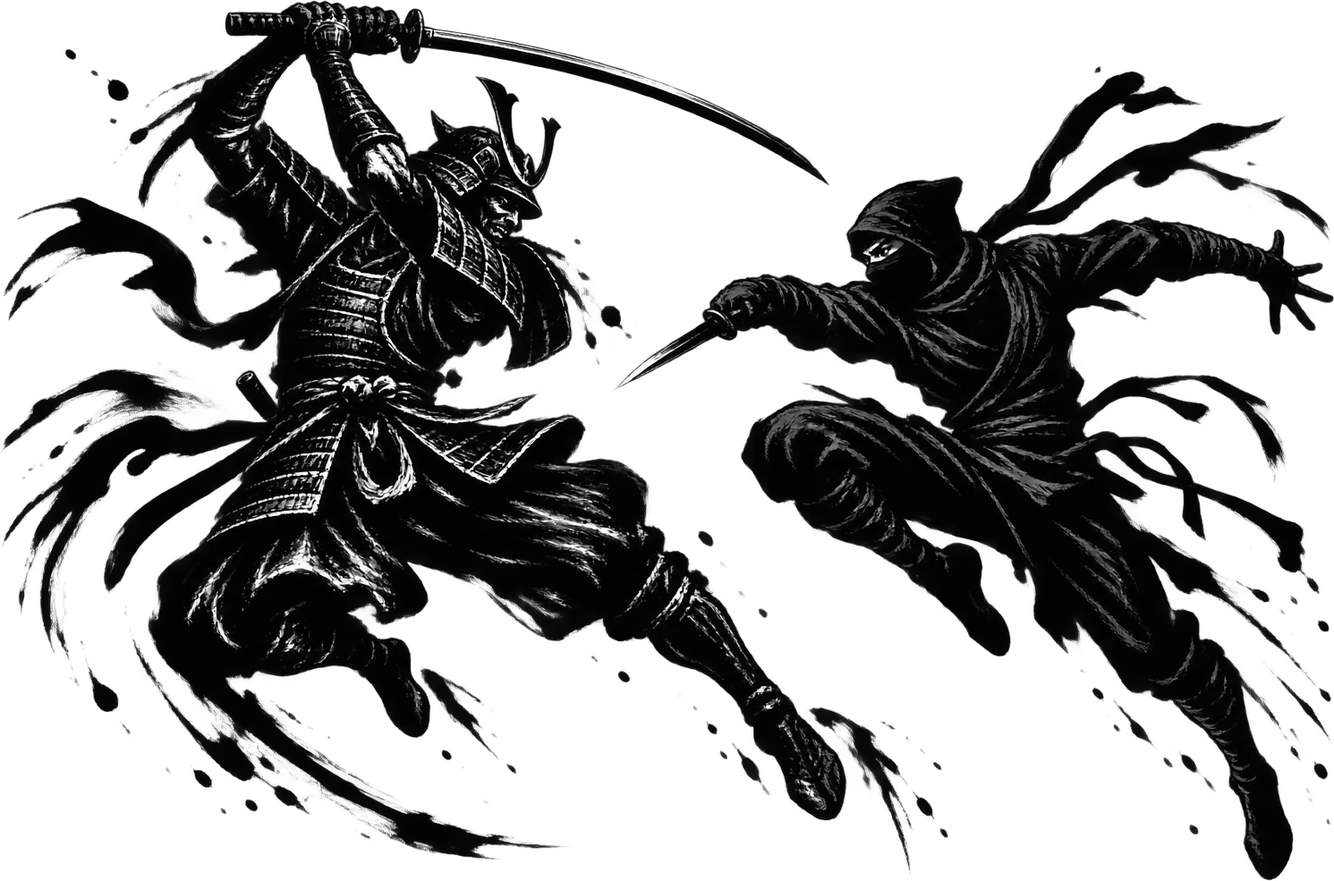
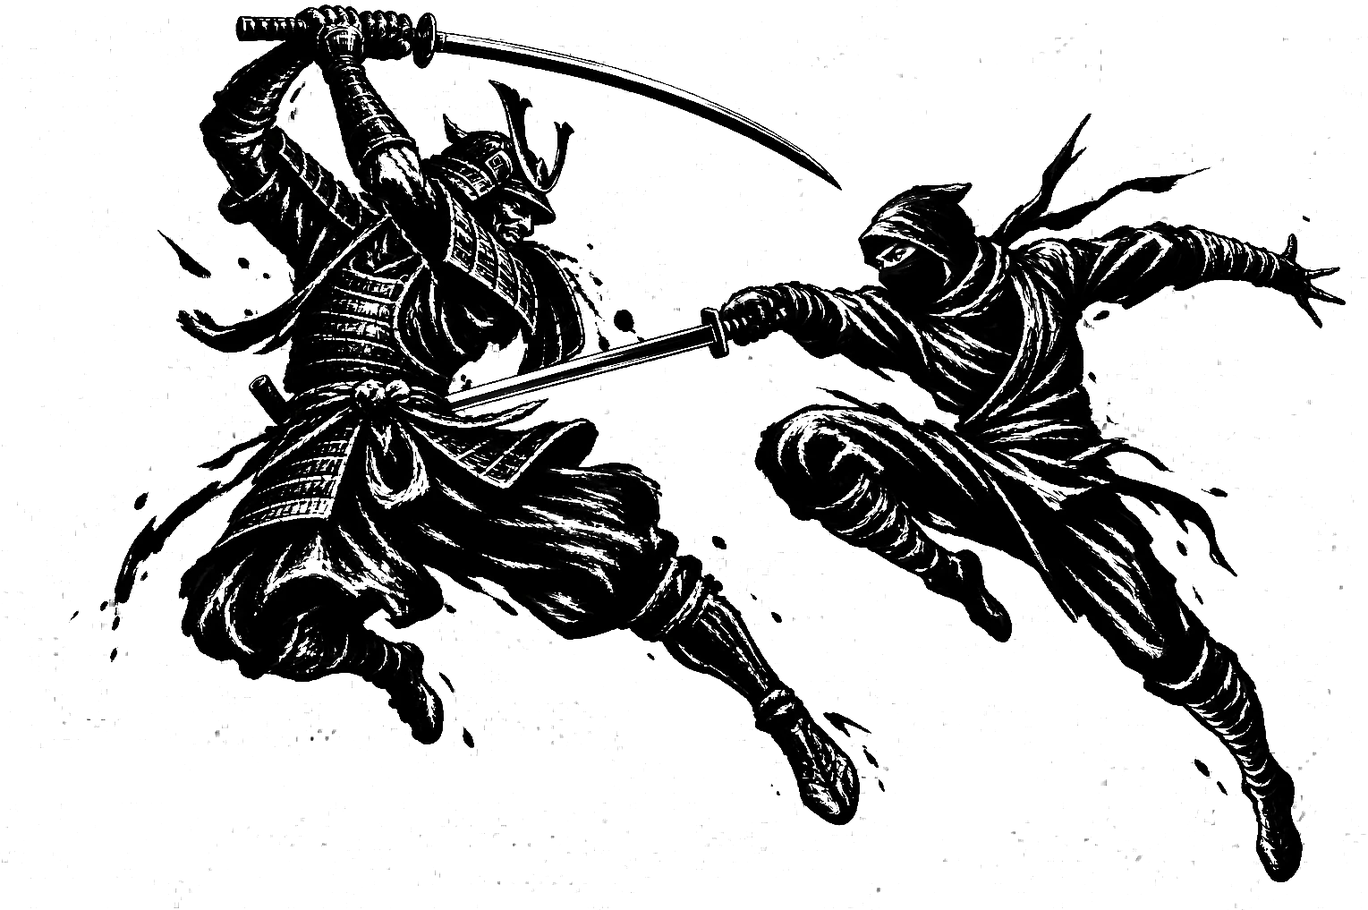
Правила: обложка с читаемым ниндзято, три персонажа веером, стол без легенды
Обложка перерисована по референсу: у ниндзя прямой меч-ниндзято, а не
кинжал. Модель вернула картинку с нарисованной шахматкой вместо альфы —
фон выключен по яркости (тушь < 110, шахматка 130–205), тушь чёрная.

«Выбор персонажей» — веер из трёх персонажей (Сайго, Усивака, Хандзо).
Стол во время партии — без нумерованной легенды и без номеров на
подписях: подписи сами называют предметы; рисунок снова во всю ширину
колонки. 12 страниц, все в границах.

Changed region(s): [[0.0, 0.0, 1.0, 1.0], [0.9873, 0.7005, 1.0, 0.731], [0.0617, 0.0914, 0.0926, 0.1218]]

diff --git a/rules/rules.html b/rules/rules.html
@@ -64,7 +64,7 @@
         <div class="chapter-body">
         <aside class="chapter-side">
           
-          <div class="side-cards fan n1"><div class="card-embed" style="--k:0;--i:0"><img src="media/cards/137.webp" alt="" loading="lazy"></div></div>
+          <div class="side-cards fan n3"><div class="card-embed" style="--k:-1;--i:0"><img src="media/cards/137.webp" alt="" loading="lazy"></div><div class="card-embed" style="--k:0;--i:1"><img src="media/cards/135.webp" alt="" loading="lazy"></div><div class="card-embed" style="--k:1;--i:2"><img src="media/cards/138.webp" alt="" loading="lazy"></div></div>
         </aside>
 <h4>Выбор персонажей</h4>
 <p>Все карты персонажей перемешиваются в общую закрытую стопку, и каждый игрок случайным образом тянет себе одну карту независимо от своей роли. Карта персонажа кладётся перед игроком в открытую — её свойства будут помогать ему всю партию.</p>
@@ -95,10 +95,9 @@
           <h2 class="chapter-title">Стол во время партии</h2>
 <p>Так выглядит стол в середине партии на четверых: у каждого игрока перед собой своя зона, посреди стола — общие стопки. Игроки сидят через одного, поэтому напротив — союзник, а по бокам — противники.</p>
 <figure class="table-figure">
-        <div class="table-pic"><img src="media/table.webp" alt="" width="1192" height="1165"><svg class="table-overlay" viewBox="0 0 1192 1165" xmlns="http://www.w3.org/2000/svg" aria-hidden="true"><defs><marker id="tf-arrow" viewBox="0 0 10 10" refX="9" refY="5" markerWidth="5" markerHeight="5" orient="auto-start-reverse"><path d="M0,0 L10,5 L0,10 z"/></marker></defs><g class="tf-lines"><line x1="209" y1="103" x2="540" y2="296"/><line x1="239" y1="183" x2="592" y2="300"/><line x1="202" y1="263" x2="583" y2="540"/><line x1="189" y1="353" x2="356" y2="560"/><line x1="999" y1="103" x2="742" y2="296"/><line x1="1007" y1="183" x2="658" y2="540"/><line x1="1019" y1="263" x2="884" y2="556"/><line x1="252" y1="883" x2="576" y2="806"/><line x1="919" y1="877" x2="662" y2="812"/><line x1="944" y1="967" x2="722" y2="722"/></g><g class="tf-labels"><g transform="translate(90,57)"><rect width="159" height="46" rx="8"/><circle class="tf-num" cx="23.0" cy="23.0" r="16"/><text class="tf-numtxt" x="23.0" y="24.0">3</text><text class="tf-txt" x="52" y="24.0">Стойка</text></g><g transform="translate(64,137)"><rect width="213" height="46" rx="8"/><circle class="tf-num" cx="23.0" cy="23.0" r="16"/><text class="tf-numtxt" x="23.0" y="24.0">2</text><text class="tf-txt" x="52" y="24.0">Карта роли</text></g><g transform="translate(90,217)"><rect width="159" height="46" rx="8"/><circle class="tf-num" cx="23.0" cy="23.0" r="16"/><text class="tf-numtxt" x="23.0" y="24.0">8</text><text class="tf-txt" x="52" y="24.0">Колода</text></g><g transform="translate(77,307)"><rect width="186" height="46" rx="8"/><circle class="tf-num" cx="23.0" cy="23.0" r="16"/><text class="tf-numtxt" x="23.0" y="24.0">1</text><text class="tf-txt" x="52" y="24.0">Персонаж</text></g><g transform="translate(964,57)"><rect width="132" height="46" rx="8"/><circle class="tf-num" cx="23.0" cy="23.0" r="16"/><text class="tf-numtxt" x="23.0" y="24.0">7</text><text class="tf-txt" x="52" y="24.0">Рука</text></g><g transform="translate(958,137)"><rect width="145" height="46" rx="8"/><circle class="tf-num" cx="23.0" cy="23.0" r="16"/><text class="tf-numtxt" x="23.0" y="24.0">9</text><text class="tf-txt" x="52" y="24.0">Сброс</text></g><g transform="translate(944,217)"><rect width="172" height="46" rx="8"/><circle class="tf-num" cx="23.0" cy="23.0" r="16"/><text class="tf-numtxt" x="23.0" y="24.0">4</text><text class="tf-txt" x="52" y="24.0">Эффекты</text></g><g transform="translate(108,877)"><rect width="145" height="46" rx="8"/><circle class="tf-num" cx="23.0" cy="23.0" r="16"/><text class="tf-numtxt" x="23.0" y="24.0">5</text><text class="tf-txt" x="52" y="24.0">Жизни</text></g><g transform="translate(884,877)"><rect width="253" height="46" rx="8"/><circle class="tf-num" cx="23.0" cy="23.0" r="16"/><text class="tf-numtxt" x="23.0" y="24.0">6</text><text class="tf-txt" x="52" y="24.0">Победные очки</text></g><g transform="translate(744,967)"><rect width="442" height="46" rx="8"/><circle class="tf-num" cx="23.0" cy="23.0" r="16"/><text class="tf-numtxt" x="23.0" y="24.0">10</text><text class="tf-txt" x="52" y="24.0">Атака: оружие + модификатор</text></g></g><g class="tf-tags"><g transform="translate(798,127)"><rect width="124" height="46" rx="23"/><text x="62.0" y="24.0">Самурай</text></g><g transform="translate(1024,372)"><rect width="111" height="46" rx="23"/><text x="55.5" y="24.0">Ниндзя</text></g><g transform="translate(698,1037)"><rect width="124" height="46" rx="23"/><text x="62.0" y="24.0">Самурай</text></g><g transform="translate(84,377)"><rect width="111" height="46" rx="23"/><text x="55.5" y="24.0">Ниндзя</text></g></g></svg></div>
+        <div class="table-pic"><img src="media/table.webp" alt="" width="1192" height="1165"><svg class="table-overlay" viewBox="0 0 1192 1165" xmlns="http://www.w3.org/2000/svg" aria-hidden="true"><defs><marker id="tf-arrow" viewBox="0 0 10 10" refX="9" refY="5" markerWidth="5" markerHeight="5" orient="auto-start-reverse"><path d="M0,0 L10,5 L0,10 z"/></marker></defs><g class="tf-lines"><line x1="209" y1="103" x2="540" y2="296"/><line x1="239" y1="183" x2="592" y2="300"/><line x1="202" y1="263" x2="583" y2="540"/><line x1="189" y1="353" x2="356" y2="560"/><line x1="999" y1="103" x2="742" y2="296"/><line x1="1007" y1="183" x2="658" y2="540"/><line x1="1019" y1="263" x2="884" y2="556"/><line x1="228" y1="888" x2="576" y2="806"/><line x1="919" y1="877" x2="662" y2="812"/><line x1="944" y1="967" x2="722" y2="722"/></g><g class="tf-labels"><g transform="translate(114,57)"><rect width="111" height="46" rx="8"/><text class="tf-txt" x="15" y="24.0">Стойка</text></g><g transform="translate(88,137)"><rect width="165" height="46" rx="8"/><text class="tf-txt" x="15" y="24.0">Карта роли</text></g><g transform="translate(114,217)"><rect width="111" height="46" rx="8"/><text class="tf-txt" x="15" y="24.0">Колода</text></g><g transform="translate(101,307)"><rect width="138" height="46" rx="8"/><text class="tf-txt" x="15" y="24.0">Персонаж</text></g><g transform="translate(988,57)"><rect width="84" height="46" rx="8"/><text class="tf-txt" x="15" y="24.0">Рука</text></g><g transform="translate(982,137)"><rect width="97" height="46" rx="8"/><text class="tf-txt" x="15" y="24.0">Сброс</text></g><g transform="translate(968,217)"><rect width="124" height="46" rx="8"/><text class="tf-txt" x="15" y="24.0">Эффекты</text></g><g transform="translate(132,877)"><rect width="97" height="46" rx="8"/><text class="tf-txt" x="15" y="24.0">Жизни</text></g><g transform="translate(908,877)"><rect width="205" height="46" rx="8"/><text class="tf-txt" x="15" y="24.0">Победные очки</text></g><g transform="translate(768,967)"><rect width="394" height="46" rx="8"/><text class="tf-txt" x="15" y="24.0">Атака: оружие + модификатор</text></g></g><g class="tf-tags"><g transform="translate(798,127)"><rect width="124" height="46" rx="23"/><text x="62.0" y="24.0">Самурай</text></g><g transform="translate(1024,372)"><rect width="111" height="46" rx="23"/><text x="55.5" y="24.0">Ниндзя</text></g><g transform="translate(698,1037)"><rect width="124" height="46" rx="23"/><text x="62.0" y="24.0">Самурай</text></g><g transform="translate(84,377)"><rect width="111" height="46" rx="23"/><text x="55.5" y="24.0">Ниндзя</text></g></g></svg></div>
         <figcaption>Стол на четверых: самурай — ниндзя — самурай — ниндзя.</figcaption>
       </figure>
-<ol class="table-legend"><li><b>Персонаж</b> — карта персонажа лежит перед игроком в открытую всю партию; цифра в сердце — стартовые жизни.</li><li><b>Карта роли</b> — Самурай, Ниндзя или Сёгун — рядом с персонажем, тоже в открытую.</li><li><b>Стойка</b> — перед собой в открытую, не больше одной; новая заменяет старую.</li><li><b>Эффекты</b> — справа от персонажа, в открытую. Сюда же ложатся эффекты, наложенные на вас другими игроками.</li><li><b>Жизни</b> — жетоны-сердца по цифре на карте персонажа. Опустились до нуля — вы обескровлены.</li><li><b>Победные очки</b> — жетоны победных очков, по умолчанию четыре. Убили — забрали очко у жертвы.</li><li><b>Рука</b> — карты рубашкой вверх, в конце хода на руке не больше восьми.</li><li><b>Колода</b> — общая колода посреди стола, рубашкой вверх. Кончилась — партия заканчивается.</li><li><b>Сброс</b> — рядом с колодой, картинкой вверх. Из сброса карты не возвращаются.</li><li><b>Атака: оружие + модификатор</b> — оружие и модификатор выкладываются на стол в сторону цели, после расчёта уходят в сброс.</li></ol>
 <p class="table-note">Ловушка кладётся перед собой рубашкой вверх с фигуркой на ней, аура — перед собой в открытую; на этой картинке их нет.</p>
           <span class="kanji" aria-hidden="true">卓</span>
         </div>

diff --git a/rules/rules-en.html b/rules/rules-en.html
@@ -64,7 +64,7 @@
         <div class="chapter-body">
         <aside class="chapter-side">
           
-          <div class="side-cards fan n1"><div class="card-embed" style="--k:0;--i:0"><img src="media/cards/137-en.webp" alt="" loading="lazy"></div></div>
+          <div class="side-cards fan n3"><div class="card-embed" style="--k:-1;--i:0"><img src="media/cards/137-en.webp" alt="" loading="lazy"></div><div class="card-embed" style="--k:0;--i:1"><img src="media/cards/135-en.webp" alt="" loading="lazy"></div><div class="card-embed" style="--k:1;--i:2"><img src="media/cards/138-en.webp" alt="" loading="lazy"></div></div>
         </aside>
 <h4>Drawing characters</h4>
 <p>All character cards are shuffled into one face-down pile, and each player draws one at random regardless of their role. The character card is placed face up in front of the player — its abilities will serve them for the whole game.</p>
@@ -95,10 +95,9 @@
           <h2 class="chapter-title">The table during play</h2>
 <p>This is what a four-player table looks like mid-game: every player has their own area in front of them, and the shared piles sit in the middle. Seats alternate, so the player opposite is your ally and the players on either side are enemies.</p>
 <figure class="table-figure">
-        <div class="table-pic"><img src="media/table.webp" alt="" width="1192" height="1165"><svg class="table-overlay" viewBox="0 0 1192 1165" xmlns="http://www.w3.org/2000/svg" aria-hidden="true"><defs><marker id="tf-arrow" viewBox="0 0 10 10" refX="9" refY="5" markerWidth="5" markerHeight="5" orient="auto-start-reverse"><path d="M0,0 L10,5 L0,10 z"/></marker></defs><g class="tf-lines"><line x1="209" y1="103" x2="540" y2="296"/><line x1="239" y1="183" x2="592" y2="300"/><line x1="202" y1="263" x2="583" y2="540"/><line x1="189" y1="353" x2="356" y2="560"/><line x1="999" y1="103" x2="742" y2="296"/><line x1="1007" y1="183" x2="658" y2="540"/><line x1="1019" y1="263" x2="884" y2="556"/><line x1="246" y1="884" x2="576" y2="806"/><line x1="919" y1="877" x2="662" y2="812"/><line x1="944" y1="967" x2="722" y2="722"/></g><g class="tf-labels"><g transform="translate(90,57)"><rect width="159" height="46" rx="8"/><circle class="tf-num" cx="23.0" cy="23.0" r="16"/><text class="tf-numtxt" x="23.0" y="24.0">3</text><text class="tf-txt" x="52" y="24.0">Stance</text></g><g transform="translate(70,137)"><rect width="199" height="46" rx="8"/><circle class="tf-num" cx="23.0" cy="23.0" r="16"/><text class="tf-numtxt" x="23.0" y="24.0">2</text><text class="tf-txt" x="52" y="24.0">Role card</text></g><g transform="translate(104,217)"><rect width="132" height="46" rx="8"/><circle class="tf-num" cx="23.0" cy="23.0" r="16"/><text class="tf-numtxt" x="23.0" y="24.0">8</text><text class="tf-txt" x="52" y="24.0">Deck</text></g><g transform="translate(70,307)"><rect width="199" height="46" rx="8"/><circle class="tf-num" cx="23.0" cy="23.0" r="16"/><text class="tf-numtxt" x="23.0" y="24.0">1</text><text class="tf-txt" x="52" y="24.0">Character</text></g><g transform="translate(964,57)"><rect width="132" height="46" rx="8"/><circle class="tf-num" cx="23.0" cy="23.0" r="16"/><text class="tf-numtxt" x="23.0" y="24.0">7</text><text class="tf-txt" x="52" y="24.0">Hand</text></g><g transform="translate(944,137)"><rect width="172" height="46" rx="8"/><circle class="tf-num" cx="23.0" cy="23.0" r="16"/><text class="tf-numtxt" x="23.0" y="24.0">9</text><text class="tf-txt" x="52" y="24.0">Discard</text></g><g transform="translate(944,217)"><rect width="172" height="46" rx="8"/><circle class="tf-num" cx="23.0" cy="23.0" r="16"/><text class="tf-numtxt" x="23.0" y="24.0">4</text><text class="tf-txt" x="52" y="24.0">Effects</text></g><g transform="translate(114,877)"><rect width="132" height="46" rx="8"/><circle class="tf-num" cx="23.0" cy="23.0" r="16"/><text class="tf-numtxt" x="23.0" y="24.0">5</text><text class="tf-txt" x="52" y="24.0">Life</text></g><g transform="translate(876,877)"><rect width="267" height="46" rx="8"/><circle class="tf-num" cx="23.0" cy="23.0" r="16"/><text class="tf-numtxt" x="23.0" y="24.0">6</text><text class="tf-txt" x="52" y="24.0">Victory points</text></g><g transform="translate(758,967)"><rect width="415" height="46" rx="8"/><circle class="tf-num" cx="23.0" cy="23.0" r="16"/><text class="tf-numtxt" x="23.0" y="24.0">10</text><text class="tf-txt" x="52" y="24.0">Attack: weapon + modifier</text></g></g><g class="tf-tags"><g transform="translate(798,127)"><rect width="124" height="46" rx="23"/><text x="62.0" y="24.0">Samurai</text></g><g transform="translate(1032,372)"><rect width="97" height="46" rx="23"/><text x="48.5" y="24.0">Ninja</text></g><g transform="translate(698,1037)"><rect width="124" height="46" rx="23"/><text x="62.0" y="24.0">Samurai</text></g><g transform="translate(92,377)"><rect width="97" height="46" rx="23"/><text x="48.5" y="24.0">Ninja</text></g></g></svg></div>
+        <div class="table-pic"><img src="media/table.webp" alt="" width="1192" height="1165"><svg class="table-overlay" viewBox="0 0 1192 1165" xmlns="http://www.w3.org/2000/svg" aria-hidden="true"><defs><marker id="tf-arrow" viewBox="0 0 10 10" refX="9" refY="5" markerWidth="5" markerHeight="5" orient="auto-start-reverse"><path d="M0,0 L10,5 L0,10 z"/></marker></defs><g class="tf-lines"><line x1="209" y1="103" x2="540" y2="296"/><line x1="239" y1="183" x2="592" y2="300"/><line x1="202" y1="263" x2="583" y2="540"/><line x1="189" y1="353" x2="356" y2="560"/><line x1="999" y1="103" x2="742" y2="296"/><line x1="1007" y1="183" x2="658" y2="540"/><line x1="1019" y1="263" x2="884" y2="556"/><line x1="222" y1="890" x2="576" y2="806"/><line x1="919" y1="877" x2="662" y2="812"/><line x1="944" y1="967" x2="722" y2="722"/></g><g class="tf-labels"><g transform="translate(114,57)"><rect width="111" height="46" rx="8"/><text class="tf-txt" x="15" y="24.0">Stance</text></g><g transform="translate(94,137)"><rect width="151" height="46" rx="8"/><text class="tf-txt" x="15" y="24.0">Role card</text></g><g transform="translate(128,217)"><rect width="84" height="46" rx="8"/><text class="tf-txt" x="15" y="24.0">Deck</text></g><g transform="translate(94,307)"><rect width="151" height="46" rx="8"/><text class="tf-txt" x="15" y="24.0">Character</text></g><g transform="translate(988,57)"><rect width="84" height="46" rx="8"/><text class="tf-txt" x="15" y="24.0">Hand</text></g><g transform="translate(968,137)"><rect width="124" height="46" rx="8"/><text class="tf-txt" x="15" y="24.0">Discard</text></g><g transform="translate(968,217)"><rect width="124" height="46" rx="8"/><text class="tf-txt" x="15" y="24.0">Effects</text></g><g transform="translate(138,877)"><rect width="84" height="46" rx="8"/><text class="tf-txt" x="15" y="24.0">Life</text></g><g transform="translate(900,877)"><rect width="219" height="46" rx="8"/><text class="tf-txt" x="15" y="24.0">Victory points</text></g><g transform="translate(782,967)"><rect width="367" height="46" rx="8"/><text class="tf-txt" x="15" y="24.0">Attack: weapon + modifier</text></g></g><g class="tf-tags"><g transform="translate(798,127)"><rect width="124" height="46" rx="23"/><text x="62.0" y="24.0">Samurai</text></g><g transform="translate(1032,372)"><rect width="97" height="46" rx="23"/><text x="48.5" y="24.0">Ninja</text></g><g transform="translate(698,1037)"><rect width="124" height="46" rx="23"/><text x="62.0" y="24.0">Samurai</text></g><g transform="translate(92,377)"><rect width="97" height="46" rx="23"/><text x="48.5" y="24.0">Ninja</text></g></g></svg></div>
         <figcaption>A table for four: samurai — ninja — samurai — ninja.</figcaption>
       </figure>
-<ol class="table-legend"><li><b>Character</b> — the character card lies face up in front of the player for the whole game; the number in the heart is the starting life.</li><li><b>Role card</b> — Samurai, Ninja or Shogun — next to the character, also face up.</li><li><b>Stance</b> — face up in front of you, one at most; a new one replaces the old.</li><li><b>Effects</b> — to the right of the character, face up. Effects other players put on you go here too.</li><li><b>Life</b> — heart tokens matching the number on the character card. Down to zero — you have bled out.</li><li><b>Victory points</b> — victory point tokens, four by default. Make a kill — take a point from the victim.</li><li><b>Hand</b> — cards face down; at the end of your turn, eight at most.</li><li><b>Deck</b> — the shared deck in the middle of the table, face down. When it runs out, the game ends.</li><li><b>Discard</b> — next to the deck, face up. Cards never come back from the discard.</li><li><b>Attack: weapon + modifier</b> — weapon and modifier are laid on the table towards the target; once resolved they go to the discard.</li></ol>
 <p class="table-note">A trap is placed face down in front of you with the figure on top; an aura goes face up in front of you. Neither is shown in this picture.</p>
           <span class="kanji" aria-hidden="true">卓</span>
         </div>

diff --git a/rules/rules.css b/rules/rules.css
@@ -489,7 +489,7 @@ section.chapter::after { content: ""; display: block; clear: both; }
 /* Рисунок уже текстовой колонки: на всю ширину страница не сходится по
    высоте. Подписи мелкие (~6.5 pt), но читаемы. */
 .table-figure {
-  width: 108mm;
+  width: 100%;
   margin: 1mm auto;
 }
 .table-figure .table-pic { position: relative; width: 100%; }

diff --git a/tools/table_fig.py b/tools/table_fig.py
@@ -77,7 +77,7 @@ NUM = {k: i + 1 for i, (k, _) in enumerate(TXT['ru']['legend'])}
 FS = 27          # кегль подписи в единицах картинки
 BH = 46          # высота плашки
 def box_w(text):
-    return int(len(text) * FS * 0.50) + 78   # узкий шрифт + кружок с номером
+    return int(len(text) * FS * 0.50) + 30   # узкий шрифт + поля плашки
 
 def esc(s):
     return s.replace('&', '&amp;').replace('<', '&lt;').replace('>', '&gt;')
@@ -102,9 +102,7 @@ def svg(lang):
         w = box_w(t[key]); x0, y0 = lx - w / 2, ly - BH / 2
         out.append(f'<g transform="translate({x0:.0f},{y0:.0f})">'
                    f'<rect width="{w}" height="{BH}" rx="8"/>'
-                   f'<circle class="tf-num" cx="{BH/2}" cy="{BH/2}" r="16"/>'
-                   f'<text class="tf-numtxt" x="{BH/2}" y="{BH/2 + 1}">{NUM[key]}</text>'
-                   f'<text class="tf-txt" x="{BH + 6}" y="{BH/2 + 1}">{esc(t[key])}</text></g>')
+                   f'<text class="tf-txt" x="15" y="{BH/2 + 1}">{esc(t[key])}</text></g>')
     out.append('</g>')
     out.append('<g class="tf-tags">')
     for key, (cx, cy) in TAGS:
@@ -118,14 +116,12 @@ def svg(lang):
 
 def section(lang):
     t = TXT[lang]
-    items = ''.join(f'<li><b>{esc(t[k])}</b> — {esc(d)}</li>' for k, d in t['legend'])
     return (f'\n      <h4>{esc(t["h4"])}</h4>\n'
             f'      <p>{esc(t["intro"])}</p>\n'
             f'      <figure class="table-figure">\n'
             f'        <div class="table-pic"><img src="media/table.webp" alt="" width="{W}" height="{H}">{svg(lang)}</div>\n'
             f'        <figcaption>{esc(t["caption"])}</figcaption>\n'
             f'      </figure>\n'
-            f'      <ol class="table-legend">{items}</ol>\n'
             f'      <p class="table-note">{esc(t["outro"])}</p>\n')
 
 if __name__ == '__main__':

diff --git a/tools/build-rules-new.py b/tools/build-rules-new.py
@@ -54,7 +54,7 @@ def bg_path(cid):
 CH = {
  'about':         dict(icons=[],                                        cards=[]),
  'setup':         dict(layout={0: 'fan', 6: 'fan'}, icons=[[('mk','hp.png'), ('mk','winpoint.png')]],
-                       cards={0: [202, 200], 6: [137]}),   # роли — у «Распределения ролей», персонаж — у «Выбора персонажей»
+                       cards={0: [202, 200], 6: [137, 135, 138]}),   # роли — у «Распределения ролей», персонажи — у «Выбора персонажей»
  'table':         dict(icons=[],                                        cards=[]),   # стол во время партии (глава собирается из table_fig)
  'flow':          dict(icons=[],                                        cards=[]),
  'players':       dict(icons=[],                                        cards=[]),
